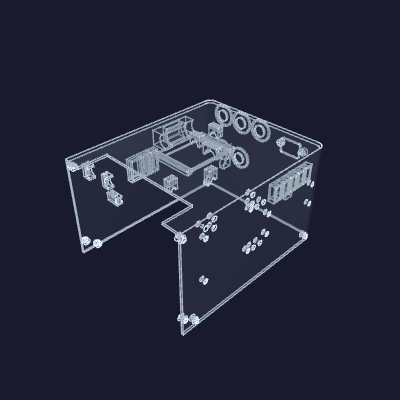
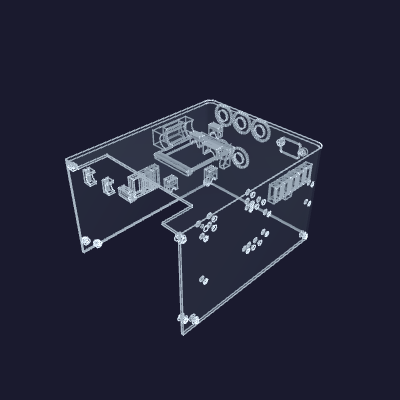
the three cluster nuts come down onto the core's own crown, which is what was under them all along
What held the block at z 300 was a tube. `fluid-28` ran the west outboard strip
and fenced this band for the whole height it crossed at; it now holds its union's
own column three millimetres inboard of where these wells reach, so nothing of the
plumbing stands under them.

All three drop 30 mm to z 270. What stops them there is the cold core's shell at
1.6 mm — the block is as low as this wall goes. The tap-water split never fenced
them (its barrel ends at y 260 and the first well starts at 295) and reads 34 mm
away; the gate line reads 4.7.

Every gate green, and no scorecard row moves but the geometry under it.

Changed region(s): [[0.21, 0.36, 0.42, 0.54]]

diff --git a/hardware/manifold-layout/enclosure_assembly.py b/hardware/manifold-layout/enclosure_assembly.py
@@ -225,12 +225,21 @@ WAGO_POLES = ("wago-h", "wago-n", "wago-g", "wago-v12", "wago-gnd")
 # water's split and the flavour tap under it. Every station clears the side walls' seam
 # furniture (`enclosure.seam_bosses`) by the lever swing as well as the well, so a lug can be
 # worked in place.
+#
+# THE STOREY IS THE COLD CORE'S OWN CROWN, and it is as low as this wall goes. What used to hold
+# the block up was a tube: `fluid-28` ran the west outboard strip and its section fenced this
+# band for the whole height it crossed at. That run now holds its union's own column three
+# millimetres further inboard than these wells reach, so nothing of the plumbing is under them
+# and the block comes down onto the one thing that is — the shell of the core itself. Re-read
+# what is left by dropping a lug onto it:
+#
+#     w.travel("wago-reeds-b", (0, 0, -1))
 CLUSTER_WAGOS = {
     "wago-mana": (+1, 113.0, 290.0, "420"),
     "wago-manb": (-1, 119.0, 281.0, "415"),
-    "wago-reeds-b": (-1, 335.0 - 2.0 * _enc.wago_pitch, 300.0, "420"),
-    "wago-reeds-a": (-1, 335.0 - 1.0 * _enc.wago_pitch, 300.0, "415"),
-    "wago-sensors": (-1, 335.0, 300.0, "415"),
+    "wago-reeds-b": (-1, 335.0 - 2.0 * _enc.wago_pitch, 270.0, "420"),
+    "wago-reeds-a": (-1, 335.0 - 1.0 * _enc.wago_pitch, 270.0, "415"),
+    "wago-sensors": (-1, 335.0, 270.0, "415"),
 }
 
 FOAM_STEP = _hw / "printed-parts" / "cold-core" / "foam-assembly" / "foam-assembly.step"

diff --git a/hardware/ledger/bom.md b/hardware/ledger/bom.md
@@ -147,7 +147,7 @@ The wetted surface is the print itself, qualified by [`wetted-surface-test.md`](
 | Faucet mounting plate | 1 | PET-CF | 0.013 | $0.53 <!--@printed--> |
 | **Printed parts total** | | | **~6.32** | **[$75.36](BOM_SEC7)** |
 
-By material: PETG ≈ 6.15 kg / $68.90 — of which the four translucent reservoir parts are ≈ 0.88 kg / $9.85 — and PET-CF ≈ 0.16 kg / $6.44.
+By material: PETG ≈ 6.15 kg / $68.91 — of which the four translucent reservoir parts are ≈ 0.88 kg / $9.85 — and PET-CF ≈ 0.16 kg / $6.44.
 
 Each cap lid ships bolted to its cap. It is the pour clamp at [`cold-core.md`](/hardware/assembly/cold-core.md) step 3 and stays: the six M3 × 25 SHCS per face pass through lid and cap into the shell-face inserts, the CO2 line enters through the top lid's tube hole, and the top lid's outer face is the plane the whole water deck and the power column stand on. The top lid also carries the [3](CAP_CRADLES) valve cradles — four bosses printed into that face per valve that stands on it (`_cold_core_interface.cap_cradles`, [`valve-seat/`](/hardware/printed-parts/valve-seat/)) — which is why it outweighs the bottom one. The cradles are a press fit and take no screw. The top cap under it carries the [4](DECK_INSERTS) deck-mount columns, which are the cap's rotation key and the water pump's own bolt pattern: its bracket bolts down into all [4](PUMP_MOUNT_SCREWS).
 
